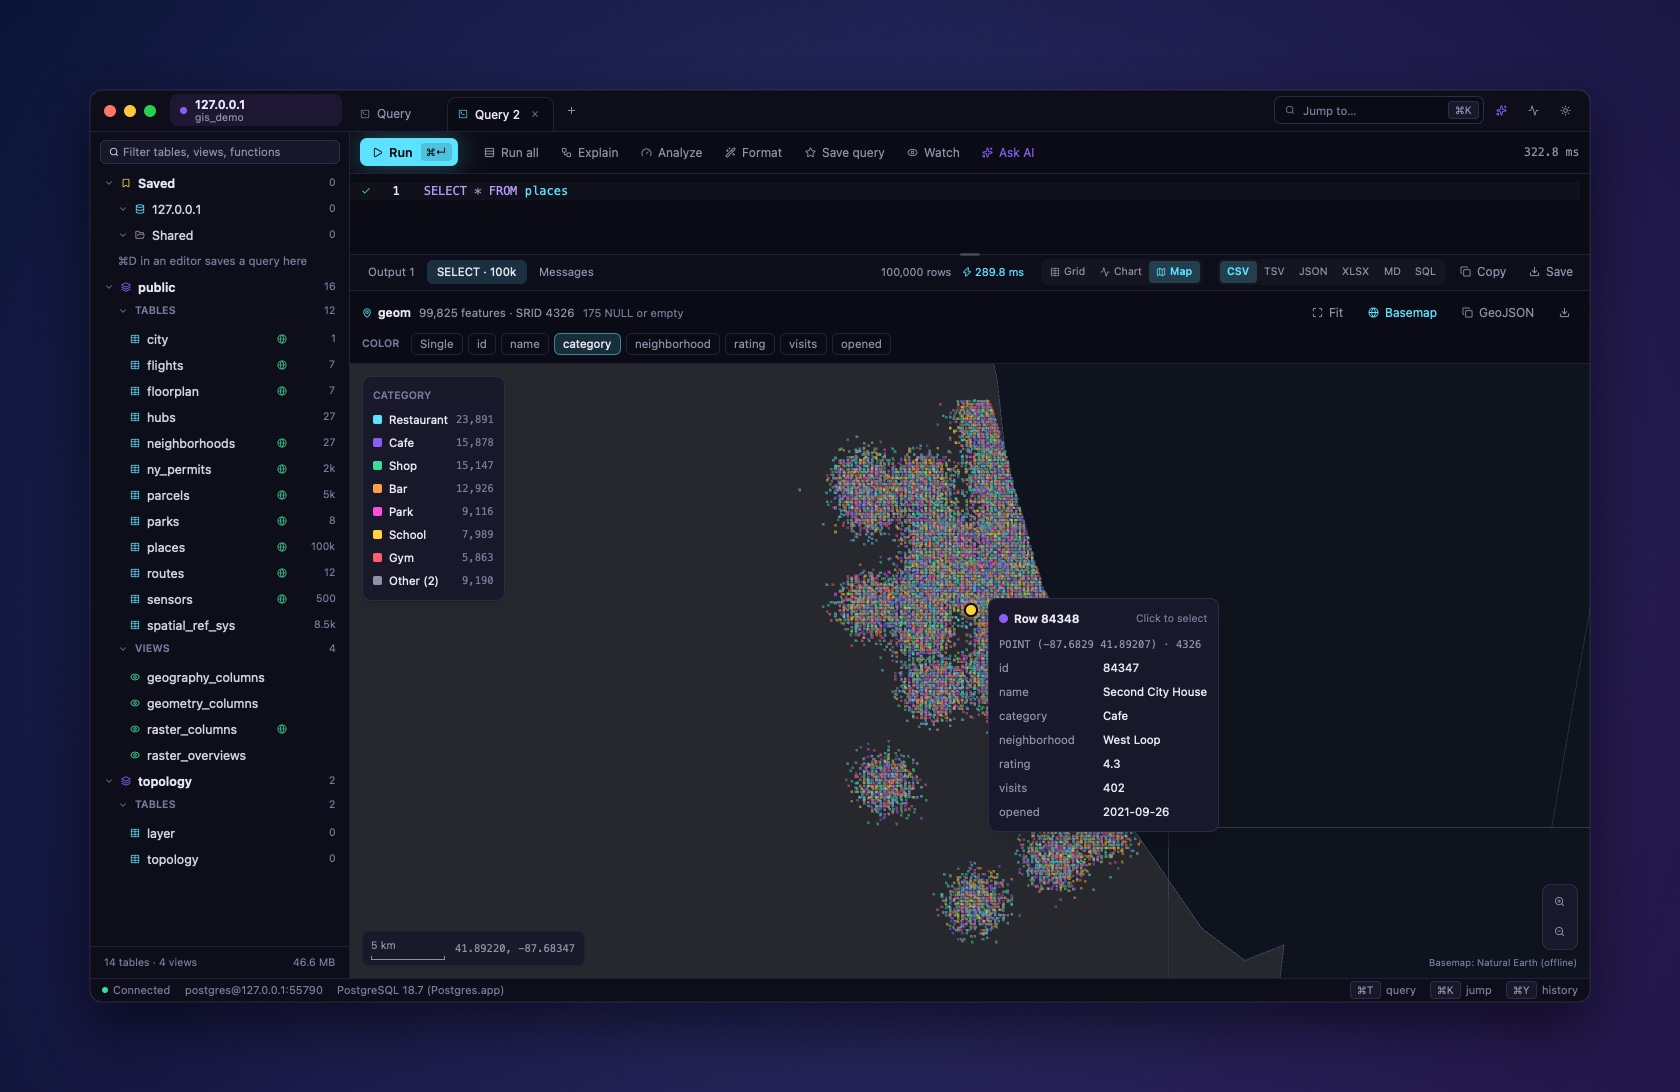
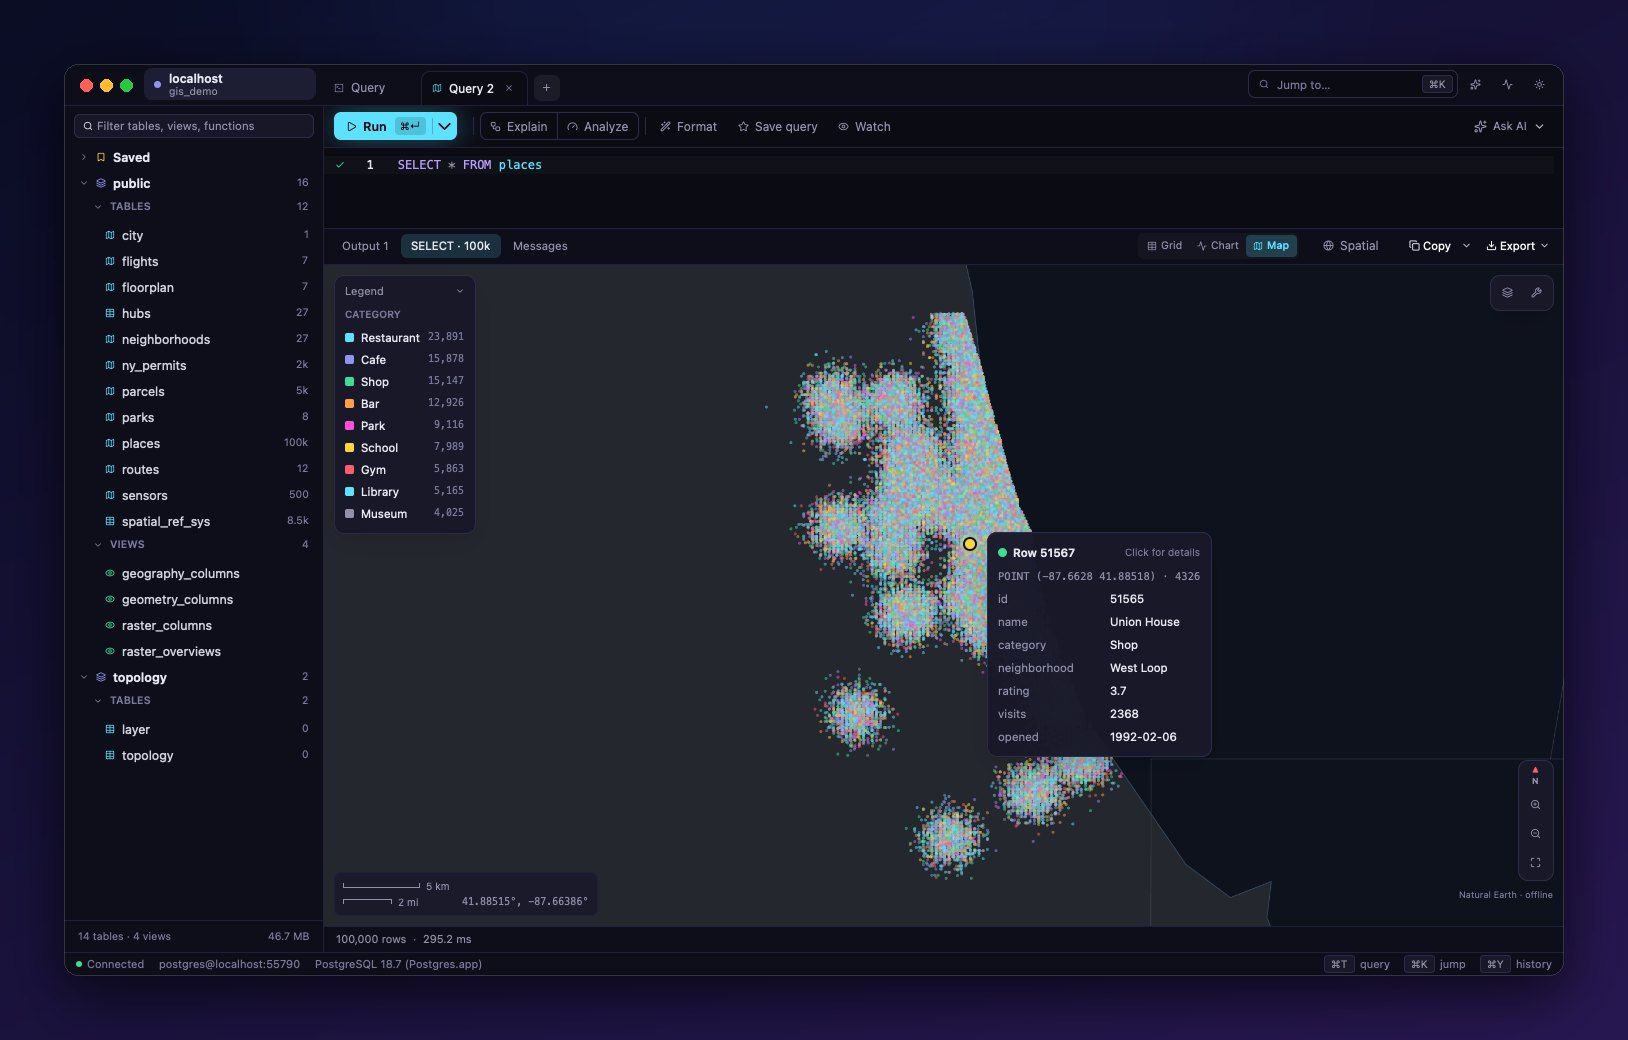
README: fresh map screenshots, a choropleth and the Spatial tools

diff --git a/README.md b/README.md
@@ -177,7 +177,10 @@ Run a query with PostGIS geometry or geography and switch to **Map**. Hundreds o
 - **Spatial insight everywhere.** PostGIS autocomplete and docs, readable WKT, EWKT and GeoJSON in the inspector, geometry types, SRIDs and extents for every table, and a warning with a one-click fix when a big table has no spatial index.
 
 <div align="center">
-<img src=".github/assets/shot-map.jpg" alt="100,000 places in Chicago on Tachyon's map, colored by category" width="100%">
+<img src=".github/assets/shot-map.jpg" alt="100,000 places in Chicago on Tachyon's map, colored by category, with a hover card" width="100%">
+<br>
+<img src=".github/assets/shot-map-choropleth.jpg" alt="Chicago neighborhoods colored by median income with natural breaks and labels" width="49%">
+<img src=".github/assets/shot-spatial-tools.jpg" alt="The Spatial tools sheet writing a within-distance query" width="49%">
 </div>
 
 <br>
